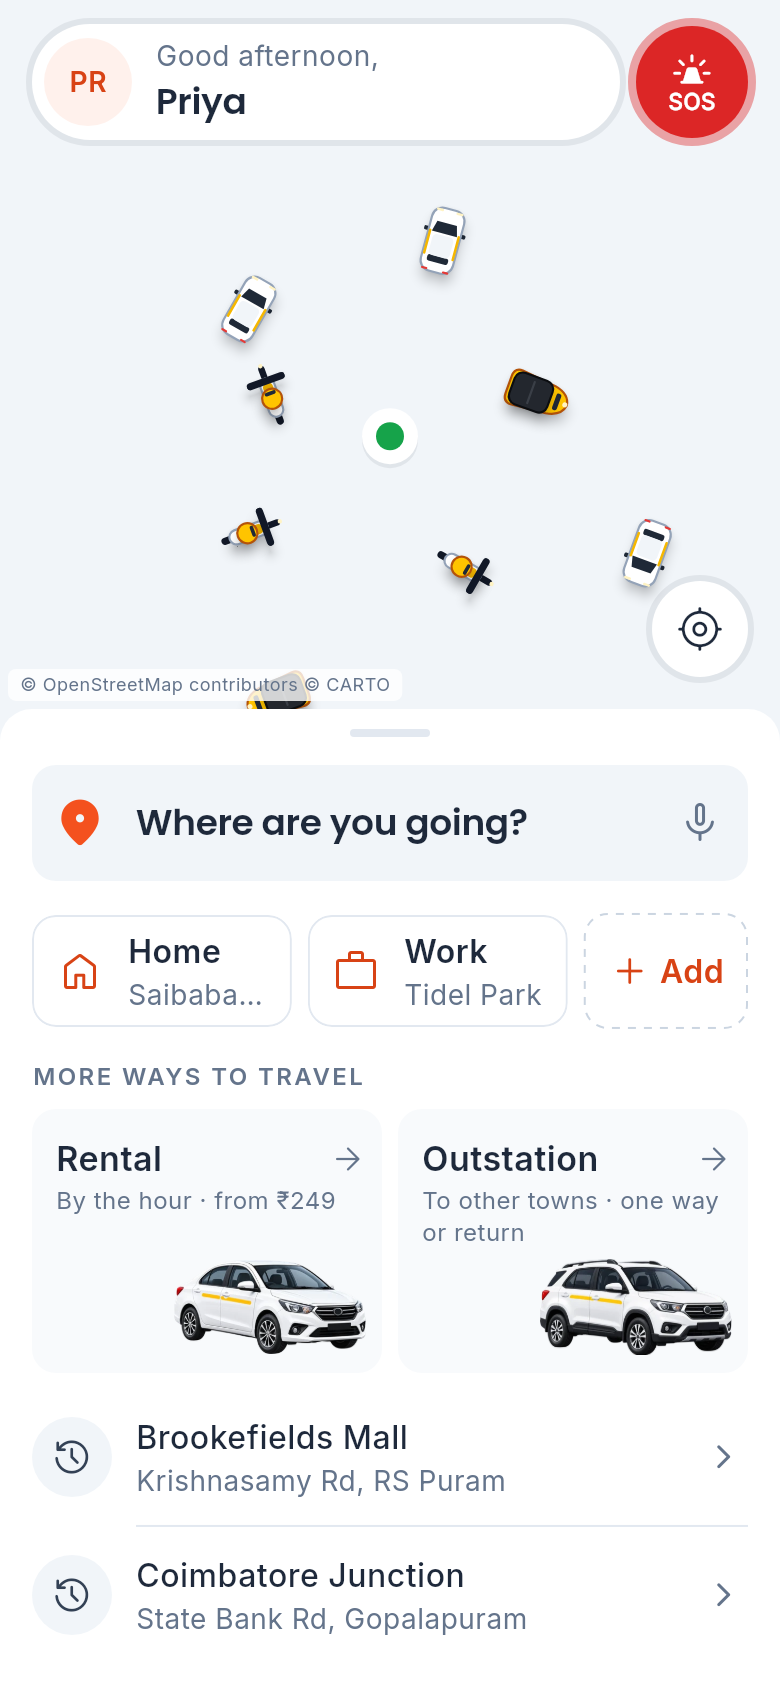
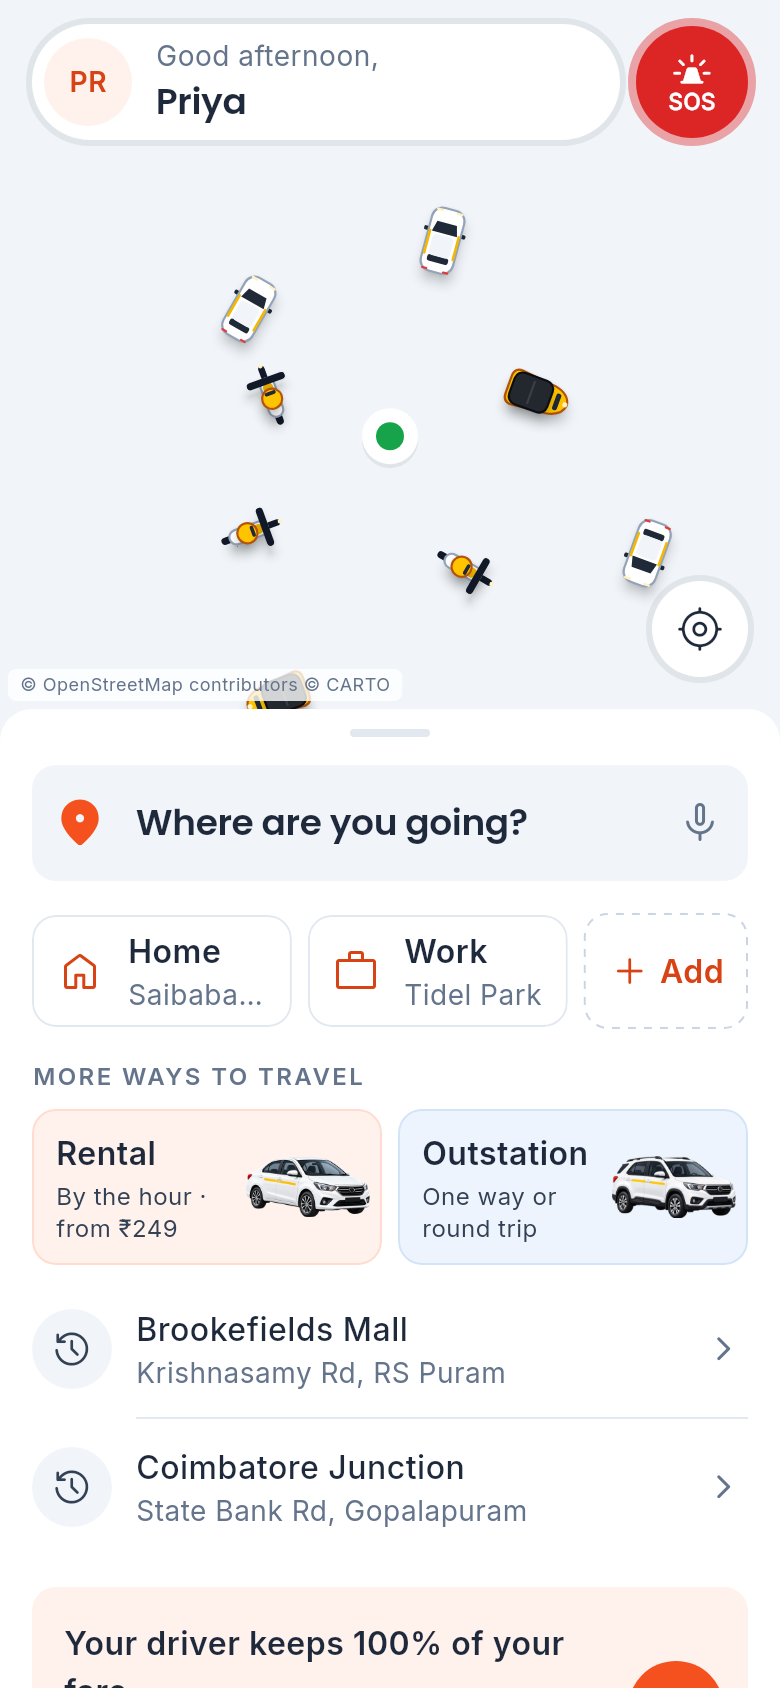
fix(passenger,ui): tinted Rental and Outstation tiles on Home, dark status bar
The Rental and Outstation tiles were white on a near-white sheet, so they
didn't read as tiles. They are now compact horizontal tiles, Rental on
coral-50 and Outstation on a new sky tint (TtColors.skyTint / sky100), with
the car picture beside the text.

The tab screens (Ride, Parcel, Activity, Account) now ask for dark status
bar icons; on the light Parcel and Activity tabs the clock and battery were
white on white.

diff --git a/apps/passenger/lib/features/ride/p07_home_screen.dart b/apps/passenger/lib/features/ride/p07_home_screen.dart
@@ -710,12 +710,21 @@ class _MoreWaysRow extends ConsumerWidget {
                 title: 'Rental',
                 subtitle: from == null ? 'By the hour' : 'By the hour · from ${formatInr(from)}',
                 kind: VehicleKind.sedan,
+                tint: TtColors.coral50,
+                edge: TtColors.coral100,
                 onTap: onRental,
               ),
             ),
             const SizedBox(width: TtSpacing.s),
             Expanded(
-              child: _WayTile(title: 'Outstation', subtitle: 'To other towns · one way or return', kind: VehicleKind.suv, onTap: onOutstation),
+              child: _WayTile(
+                title: 'Outstation',
+                subtitle: 'One way or round trip',
+                kind: VehicleKind.suv,
+                tint: TtColors.skyTint,
+                edge: TtColors.sky100,
+                onTap: onOutstation,
+              ),
             ),
           ],
           ),
@@ -725,11 +734,21 @@ class _MoreWaysRow extends ConsumerWidget {
   }
 }
 
+/// A tinted tile (so it stands apart from the sheet): the title and what it is on the left, the car on the right.
 class _WayTile extends StatelessWidget {
-  const _WayTile({required this.title, required this.subtitle, required this.kind, required this.onTap});
+  const _WayTile({
+    required this.title,
+    required this.subtitle,
+    required this.kind,
+    required this.tint,
+    required this.edge,
+    required this.onTap,
+  });
   final String title;
   final String subtitle;
   final VehicleKind kind;
+  final Color tint;
+  final Color edge;
   final VoidCallback onTap;
 
   @override
@@ -740,24 +759,28 @@ class _WayTile extends StatelessWidget {
       label: '$title, $subtitle',
       excludeSemantics: true,
       child: Material(
-        color: TtColors.background,
-        borderRadius: TtRadii.cardRadius,
+        color: tint,
+        shape: RoundedRectangleBorder(borderRadius: TtRadii.cardRadius, side: BorderSide(color: edge)),
         clipBehavior: Clip.antiAlias,
         child: InkWell(
           onTap: onTap,
           child: Padding(
-            padding: const EdgeInsets.fromLTRB(TtSpacing.m, TtSpacing.m, TtSpacing.s, TtSpacing.s),
-            child: Column(
-              crossAxisAlignment: CrossAxisAlignment.start,
+            padding: const EdgeInsets.fromLTRB(12, 10, 6, 10),
+            child: Row(
               children: [
-                Row(children: [
-                  Expanded(child: Text(title, style: t.bodySemibold.copyWith(fontSize: 17))),
-                  const Icon(Symbols.arrow_forward_rounded, size: 18, color: TtColors.navy500),
-                ]),
-                Text(subtitle, style: t.caption.copyWith(color: TtColors.navy500), maxLines: 2),
-                const Spacer(),
-                const SizedBox(height: TtSpacing.xs),
-                Align(alignment: Alignment.bottomRight, child: VehicleArt(kind, width: 96, height: 50)),
+                Expanded(
+                  child: Column(
+                    crossAxisAlignment: CrossAxisAlignment.start,
+                    mainAxisAlignment: MainAxisAlignment.center,
+                    children: [
+                      Text(title, style: t.bodySemibold),
+                      const SizedBox(height: 2),
+                      Text(subtitle, style: t.caption.copyWith(color: TtColors.navy700), maxLines: 2),
+                    ],
+                  ),
+                ),
+                const SizedBox(width: 4),
+                VehicleArt(kind, width: 62, height: 38),
               ],
             ),
           ),

diff --git a/apps/passenger/lib/common/passenger_shell.dart b/apps/passenger/lib/common/passenger_shell.dart
@@ -1,4 +1,5 @@
 import 'package:flutter/material.dart';
+import 'package:flutter/services.dart';
 import 'package:go_router/go_router.dart';
 import 'package:tamiltaxi_ui/tamiltaxi_ui.dart';
 
@@ -17,6 +18,14 @@ class PassengerShell extends StatelessWidget {
 
   @override
   Widget build(BuildContext context) {
+    // Light screens under a transparent status bar: dark icons (a screen with a dark top sets its own region).
+    return AnnotatedRegion<SystemUiOverlayStyle>(
+      value: SystemUiOverlayStyle.dark.copyWith(statusBarColor: Colors.transparent),
+      child: _scaffold(),
+    );
+  }
+
+  Widget _scaffold() {
     return Scaffold(
       body: navigationShell,
       bottomNavigationBar: TtBottomNav(

diff --git a/packages/tamiltaxi_ui/lib/src/theme/tt_colors.dart b/packages/tamiltaxi_ui/lib/src/theme/tt_colors.dart
@@ -35,6 +35,10 @@ abstract final class TtColors {
   static const errorTint = Color(0xFFFEE2E2);
   static const infoTint = Color(0xFFE2E8F0);
 
+  /// A cool light blue for a tile next to a coral-50 one (Home › Outstation beside Rental), and its edge.
+  static const skyTint = Color(0xFFEDF4FD);
+  static const sky100 = Color(0xFFD3E4F8);
+
   // Map style
   static const mapLand = Color(0xFFEEF0F3);
   static const mapRoad = Color(0xFFFFFFFF);
